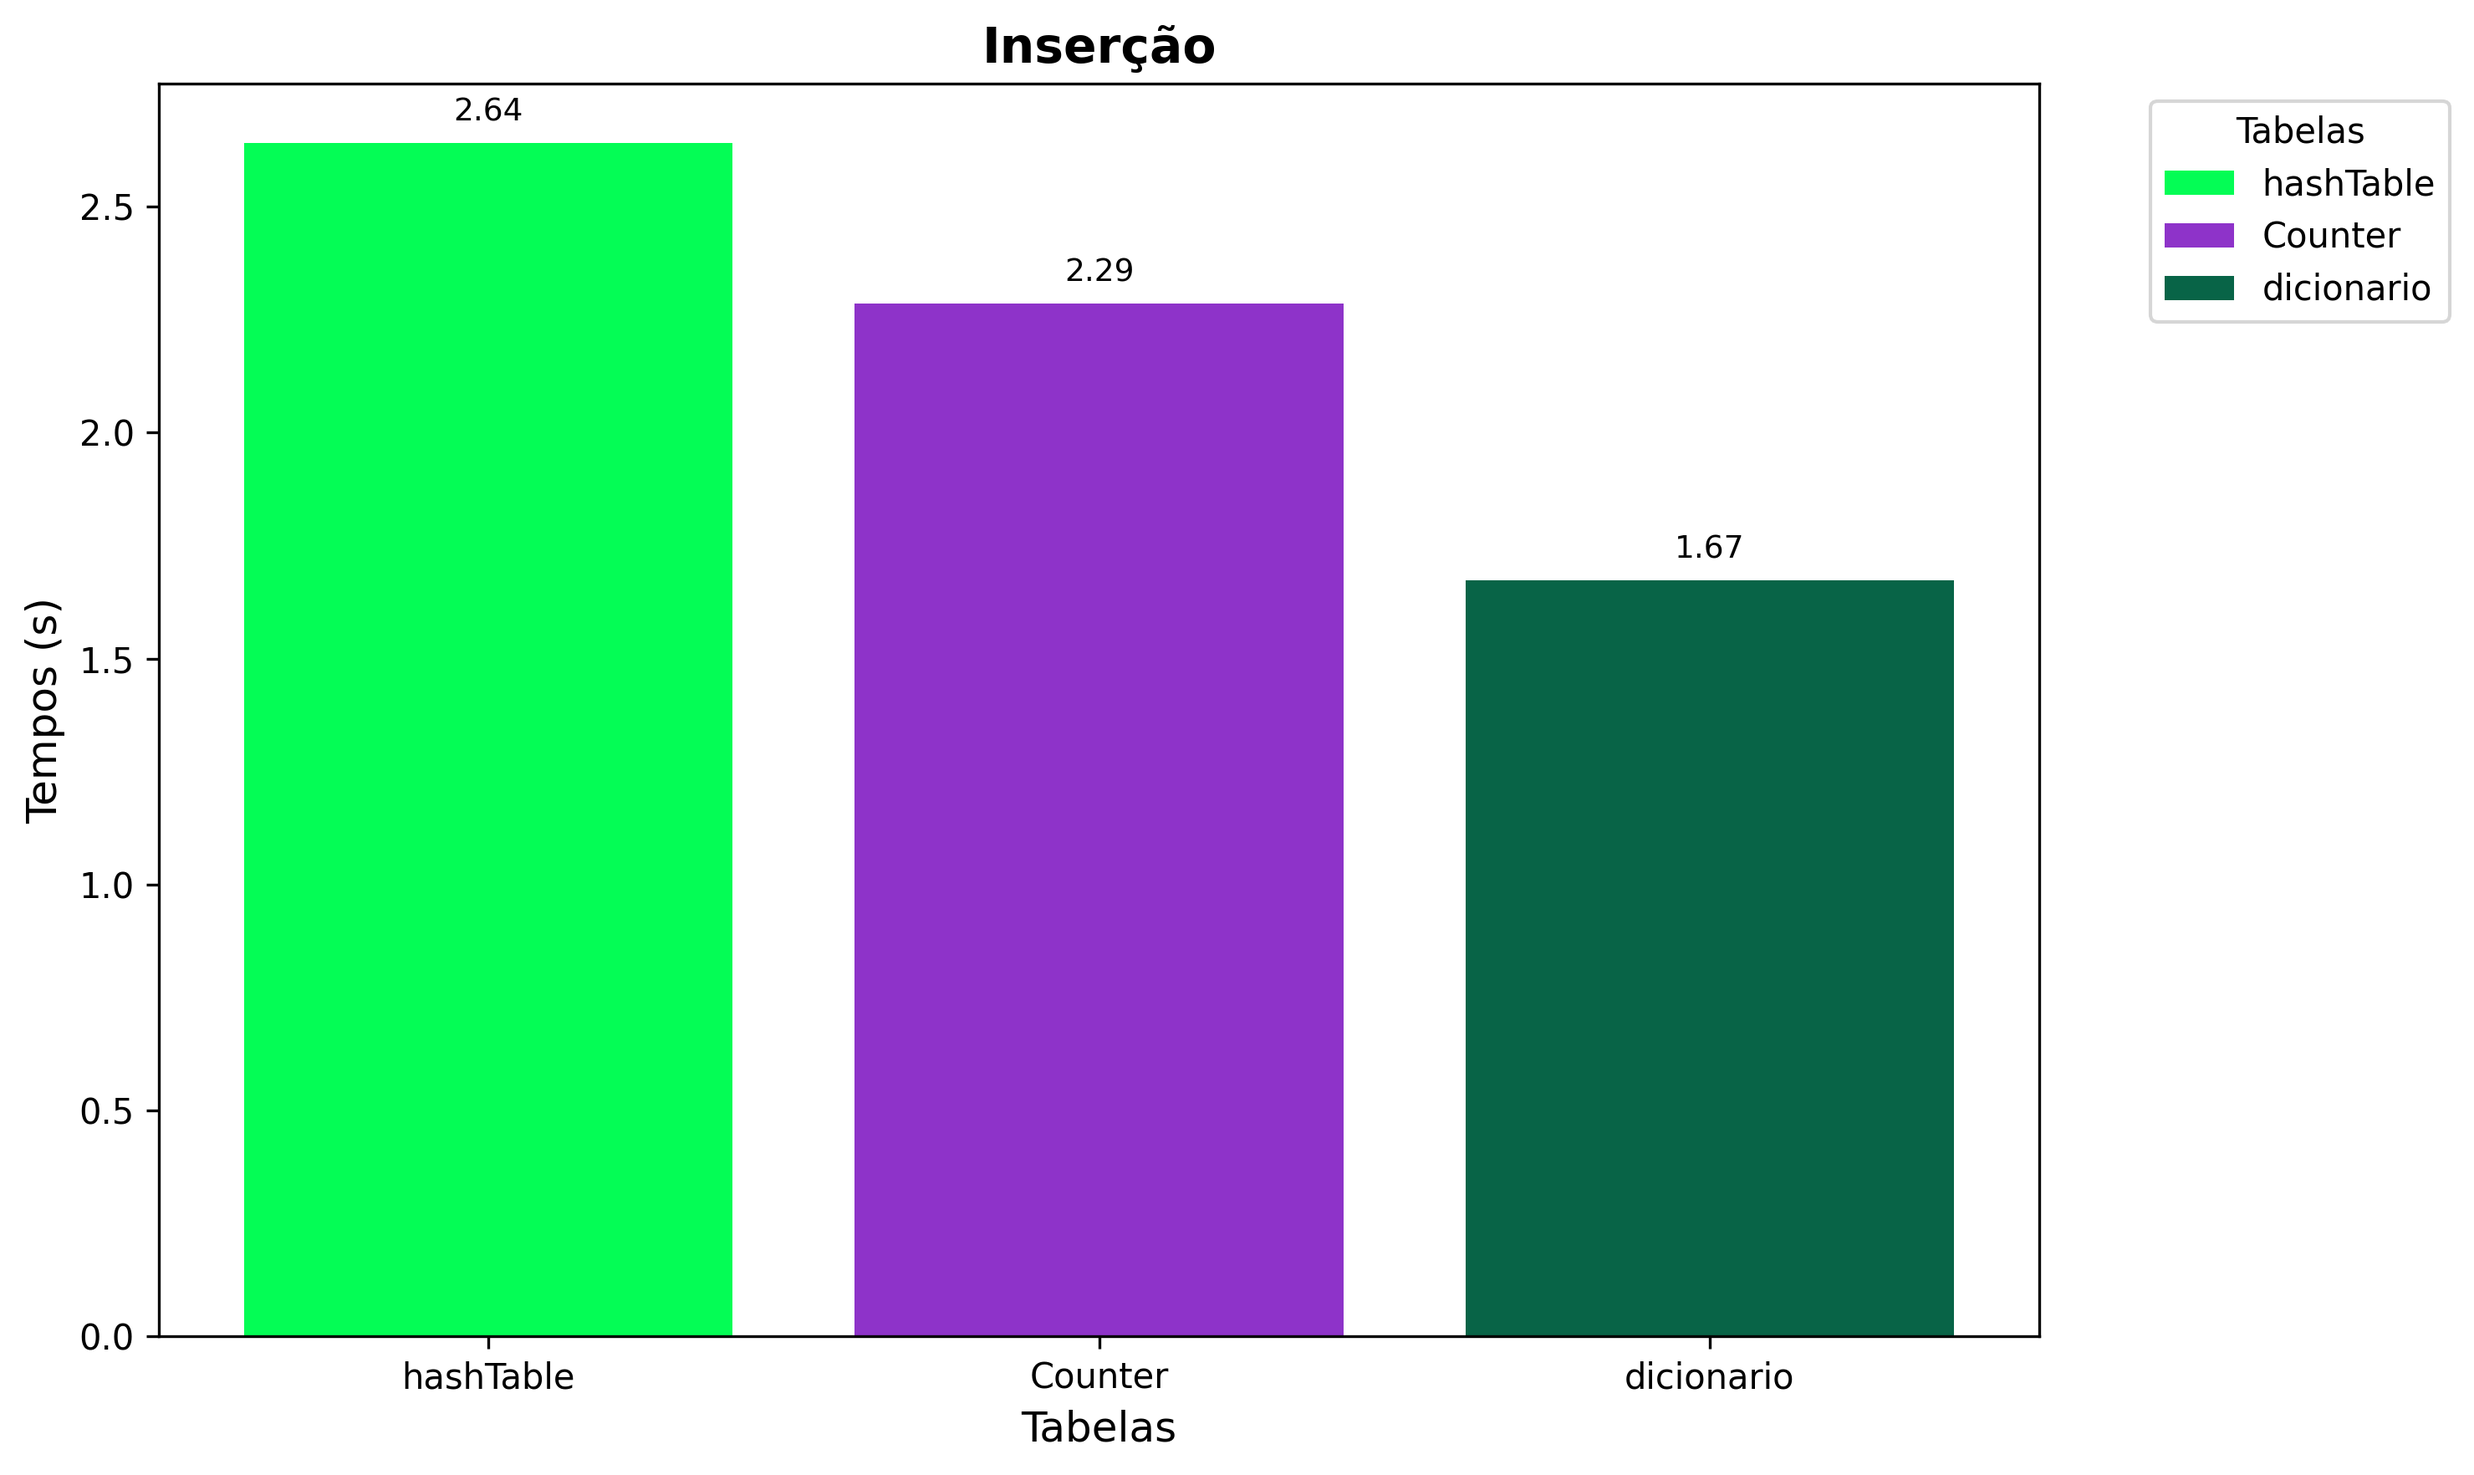
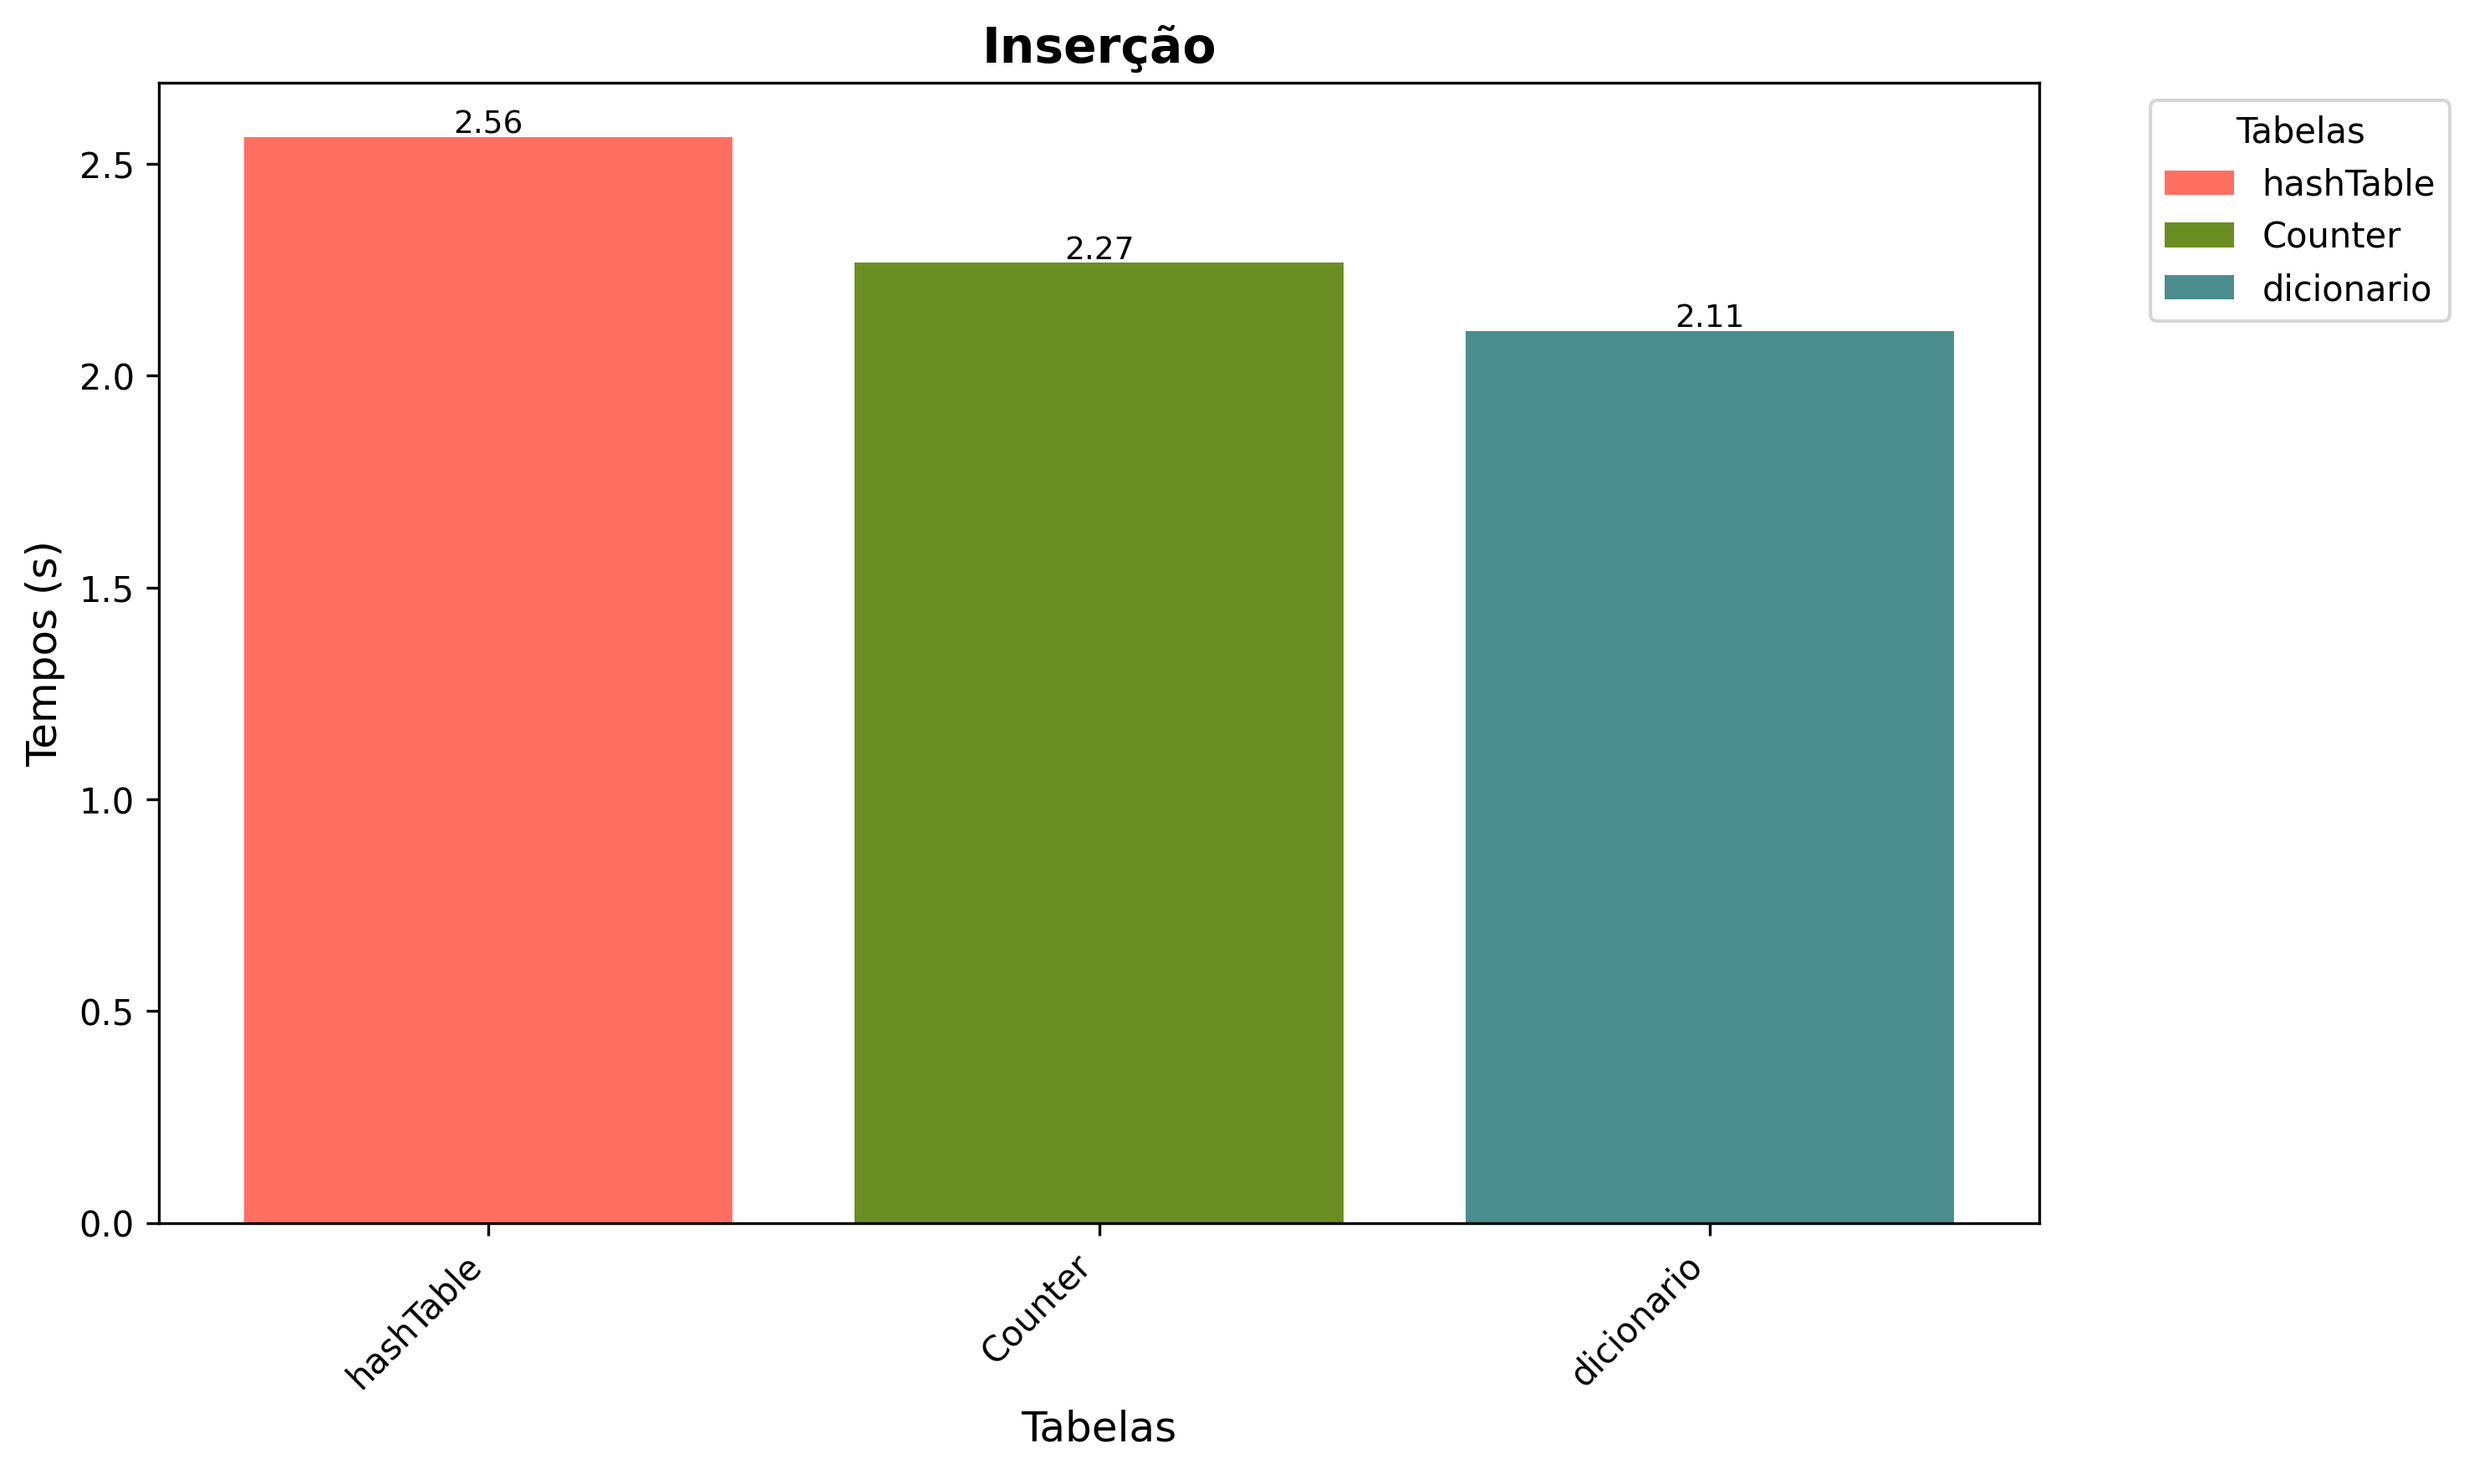
eu ajeitei os gráficos

diff --git a/TrabalhoFinal/menu.py b/TrabalhoFinal/menu.py
@@ -155,7 +155,8 @@ def delete_dict(tabela:list,key):
 
 
 def costruir_grafico(x, y, Xlabel: str, Ylabel: str, title: str, Bar: bool = True, save_path: str = "grafico_tabelas.png", directory: str = "arquivos_salvos"):
-    
+    cores = ['#FF6F61','#6B8E23','#4B8E8D','#FFD700','#8A2BE2',
+                '#FF6347','#20B2AA','#F08080', '#48C9B0' ,'#D3D3D3']
     plt.figure(figsize=(10, 6))
     plt.title(title, fontsize=14, fontweight='bold')
     plt.xlabel(Xlabel, fontsize=12)
@@ -164,12 +165,13 @@ def costruir_grafico(x, y, Xlabel: str, Ylabel: str, title: str, Bar: bool = Tru
     plt.yticks(fontsize=10)
     
     if Bar:
-        colors = [f'#{random.randint(0, 0xFFFFFF):06x}' for _ in x]
-        bars = plt.bar(x, y, color=colors) 
+        colors = [cores[i % len(cores)] for i, _ in enumerate(x)]
+        bars = plt.bar(x, y, color=colors)
+        plt.xticks(rotation=45, ha='right') 
         for bar, label in zip(bars, x):
             plt.text(
                 bar.get_x() + bar.get_width() / 2, 
-                bar.get_height() + 0.05,
+                bar.get_height() + 0.01,
                 f'{bar.get_height():.2f}',
                 ha='center',
                 fontsize=9

diff --git a/TrabalhoFinal/test.py b/TrabalhoFinal/test.py
@@ -1,0 +1,7 @@
+import menu,collections
+import matplotlib.pyplot as plt
+palavras = ["Lisbon", "NASA",
+"Kyunghee", "Konkuk", "Sogang", "momentarily", "rubella", "vaccinations", "government",
+"Authorities"]
+tempos_lista_dict = [0.64,0.29,0.17,0.12,0.17,0.10,0.21,0.10,0.02,0.10]
+menu.costruir_grafico(palavras, tempos_lista_dict,Xlabel='Tabelas',Ylabel='Tempos (ms)',title='Tempos de Busca hash table', save_path= "searchTimesListDict.png",directory= "TrabalhoFinal/tempos") 
